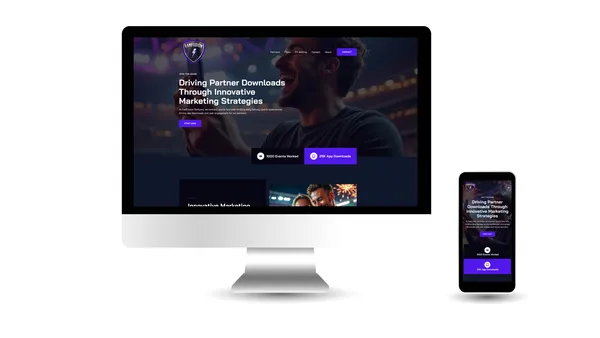
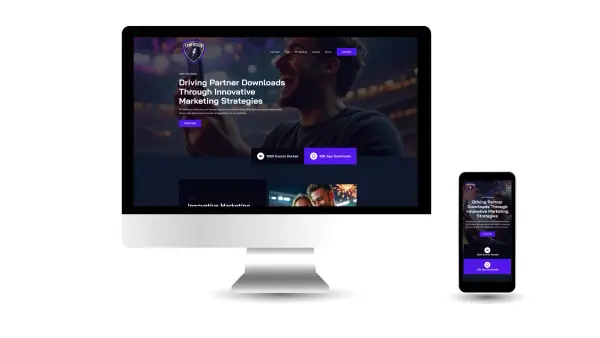
Improve mobile image loading and compression for faster performance
Update image optimization script to generate mobile WebP images with 70% quality, and modify the home page to use the `<picture>` element for the Tyler Huff image, ensuring mobile-specific versions are served.

Replit-Commit-Author: Agent
Replit-Commit-Session-Id: 14af0802-2801-4181-9a91-01115c64507a
Replit-Commit-Checkpoint-Type: full_checkpoint
Replit-Commit-Event-Id: 97d0c101-bd26-4b93-91d8-c7f53d1c3104
Replit-Commit-Screenshot-Url: https://storage.googleapis.com/screenshot-production-us-central1/2d11b824-06ff-48cb-b50e-0bd087f2b44b/14af0802-2801-4181-9a91-01115c64507a/l7HD3QX
Replit-Helium-Checkpoint-Created: true

diff --git a/client/src/pages/home.tsx b/client/src/pages/home.tsx
@@ -315,14 +315,17 @@ export default function HomePage() {
           <div className="grid lg:grid-cols-2 gap-16 items-center">
             <div className="relative max-w-md mx-auto lg:ml-auto">
               <div className="rounded-2xl overflow-hidden shadow-2xl border-4 border-white">
-                 <img 
-                   src="/assets/images/tylerhuff_founder.webp" 
-                   alt="Tyler Huff" 
-                   className="w-full h-auto object-cover"
-                   loading="lazy"
-                   width="448"
-                   height="560"
-                 />
+                <picture className="w-full h-auto">
+                  <source media="(max-width: 640px)" srcSet="/assets/images/tylerhuff_founder-mobile.webp" />
+                   <img 
+                     src="/assets/images/tylerhuff_founder.webp" 
+                     alt="Tyler Huff" 
+                     className="w-full h-auto object-cover"
+                     loading="lazy"
+                     width="448"
+                     height="560"
+                   />
+                </picture>
               </div>
               <div className="absolute -bottom-6 right-4 bg-white p-4 rounded-xl shadow-xl border border-gray-100 max-w-xs block">
                  <h4 className="font-bold text-lg font-heading text-gray-900">Tyler Huff</h4>

diff --git a/scripts/optimize-images.js b/scripts/optimize-images.js
@@ -35,13 +35,12 @@ async function processImages() {
 
         // 2. Generate Mobile WebP Version (600px width)
         const mobileWebpPath = path.join(imagesDir, `${name}${mobileSuffix}.webp`);
-        if (!files.includes(`${name}${mobileSuffix}.webp`)) {
-          console.log(`Generating Mobile WebP: ${name}${mobileSuffix}.webp`);
-          await sharp(inputPath)
-            .resize(600, null, { withoutEnlargement: true }) // Resize to max 600px width, auto height
-            .webp({ quality: 80 })
-            .toFile(mobileWebpPath);
-        }
+        // Always regenerate mobile images if we want to change quality
+        console.log(`Generating Mobile WebP: ${name}${mobileSuffix}.webp`);
+        await sharp(inputPath)
+          .resize(600, null, { withoutEnlargement: true }) // Resize to max 600px width, auto height
+          .webp({ quality: 70 }) // Lower quality for mobile for better performance
+          .toFile(mobileWebpPath);
       } catch (innerErr) {
         console.error(`Failed to process ${file}:`, innerErr.message);
       }
